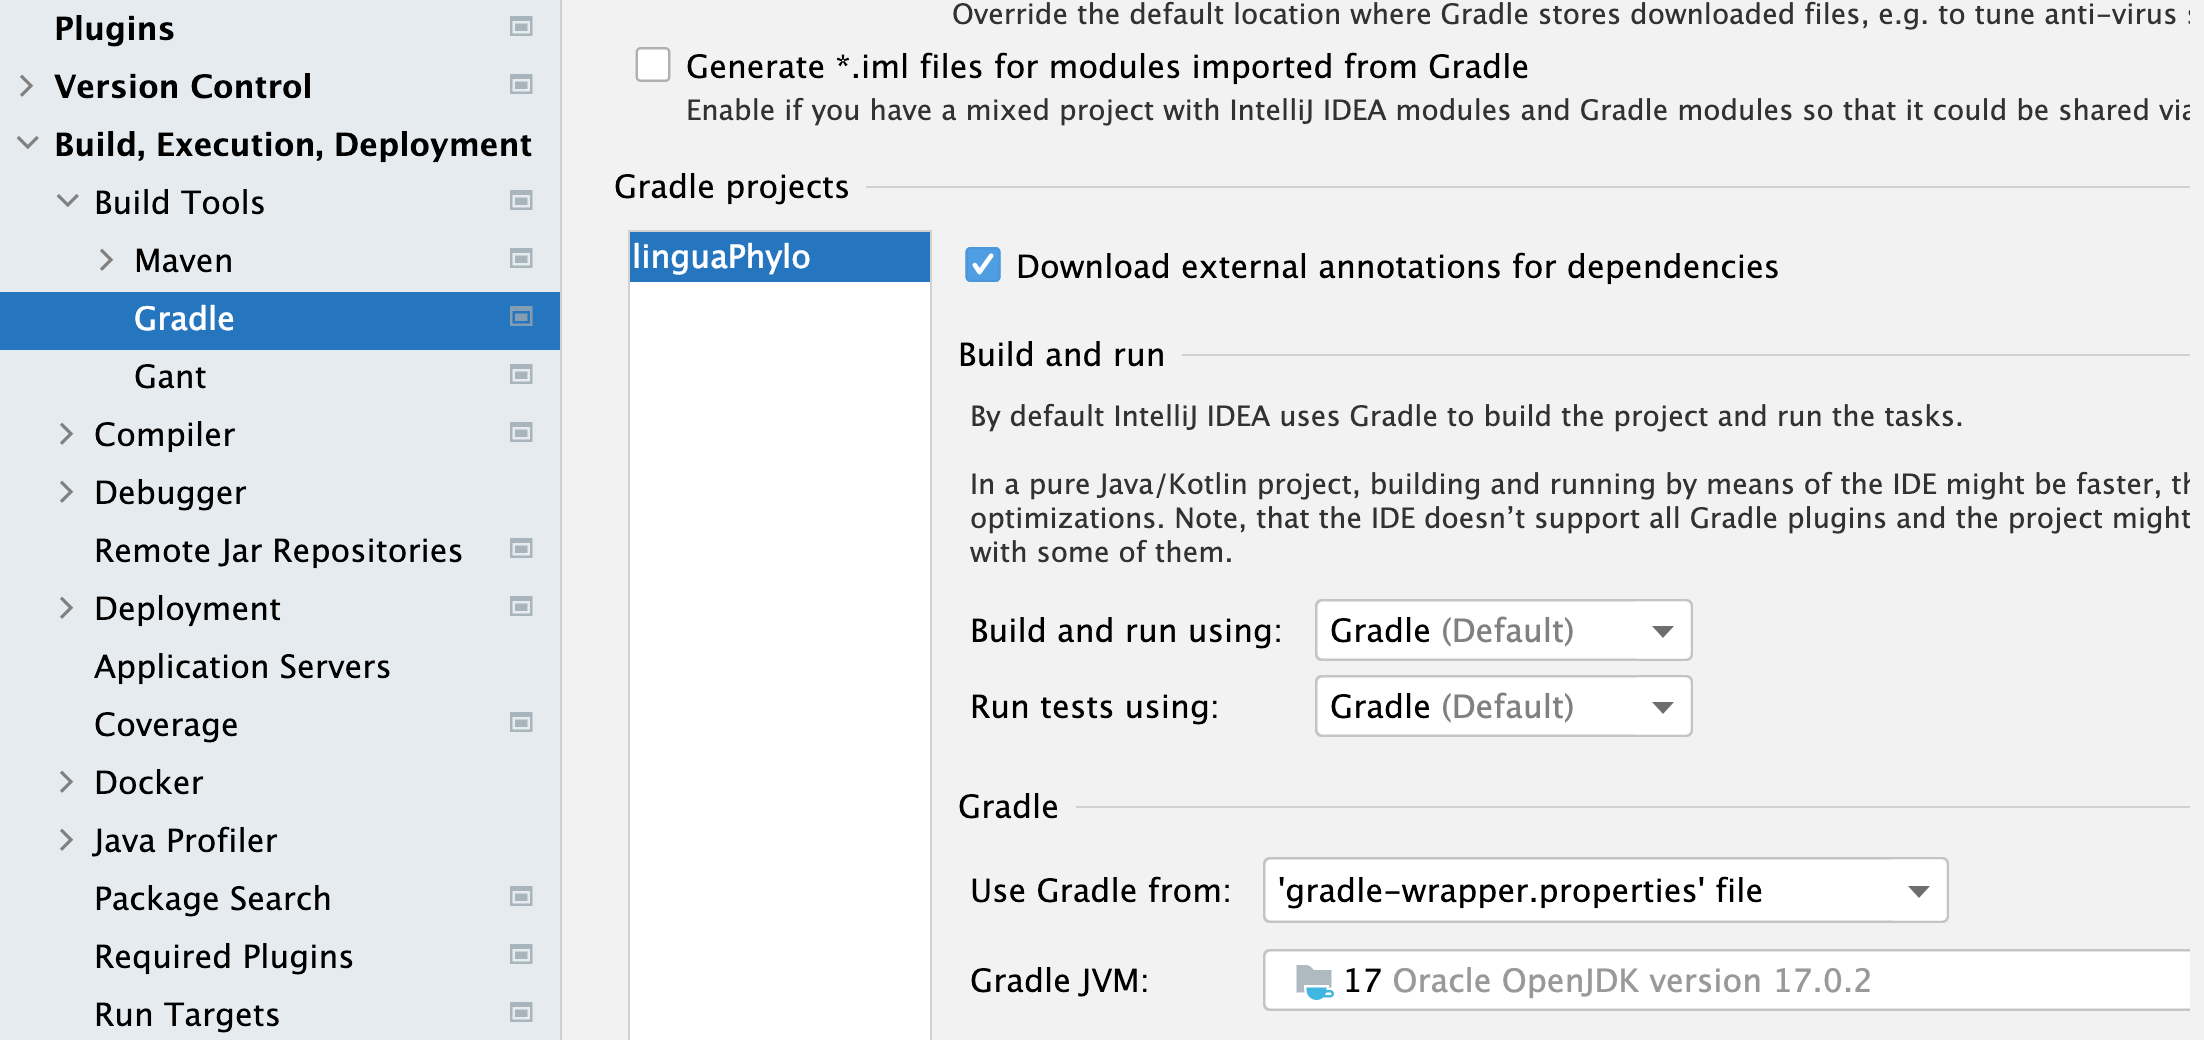
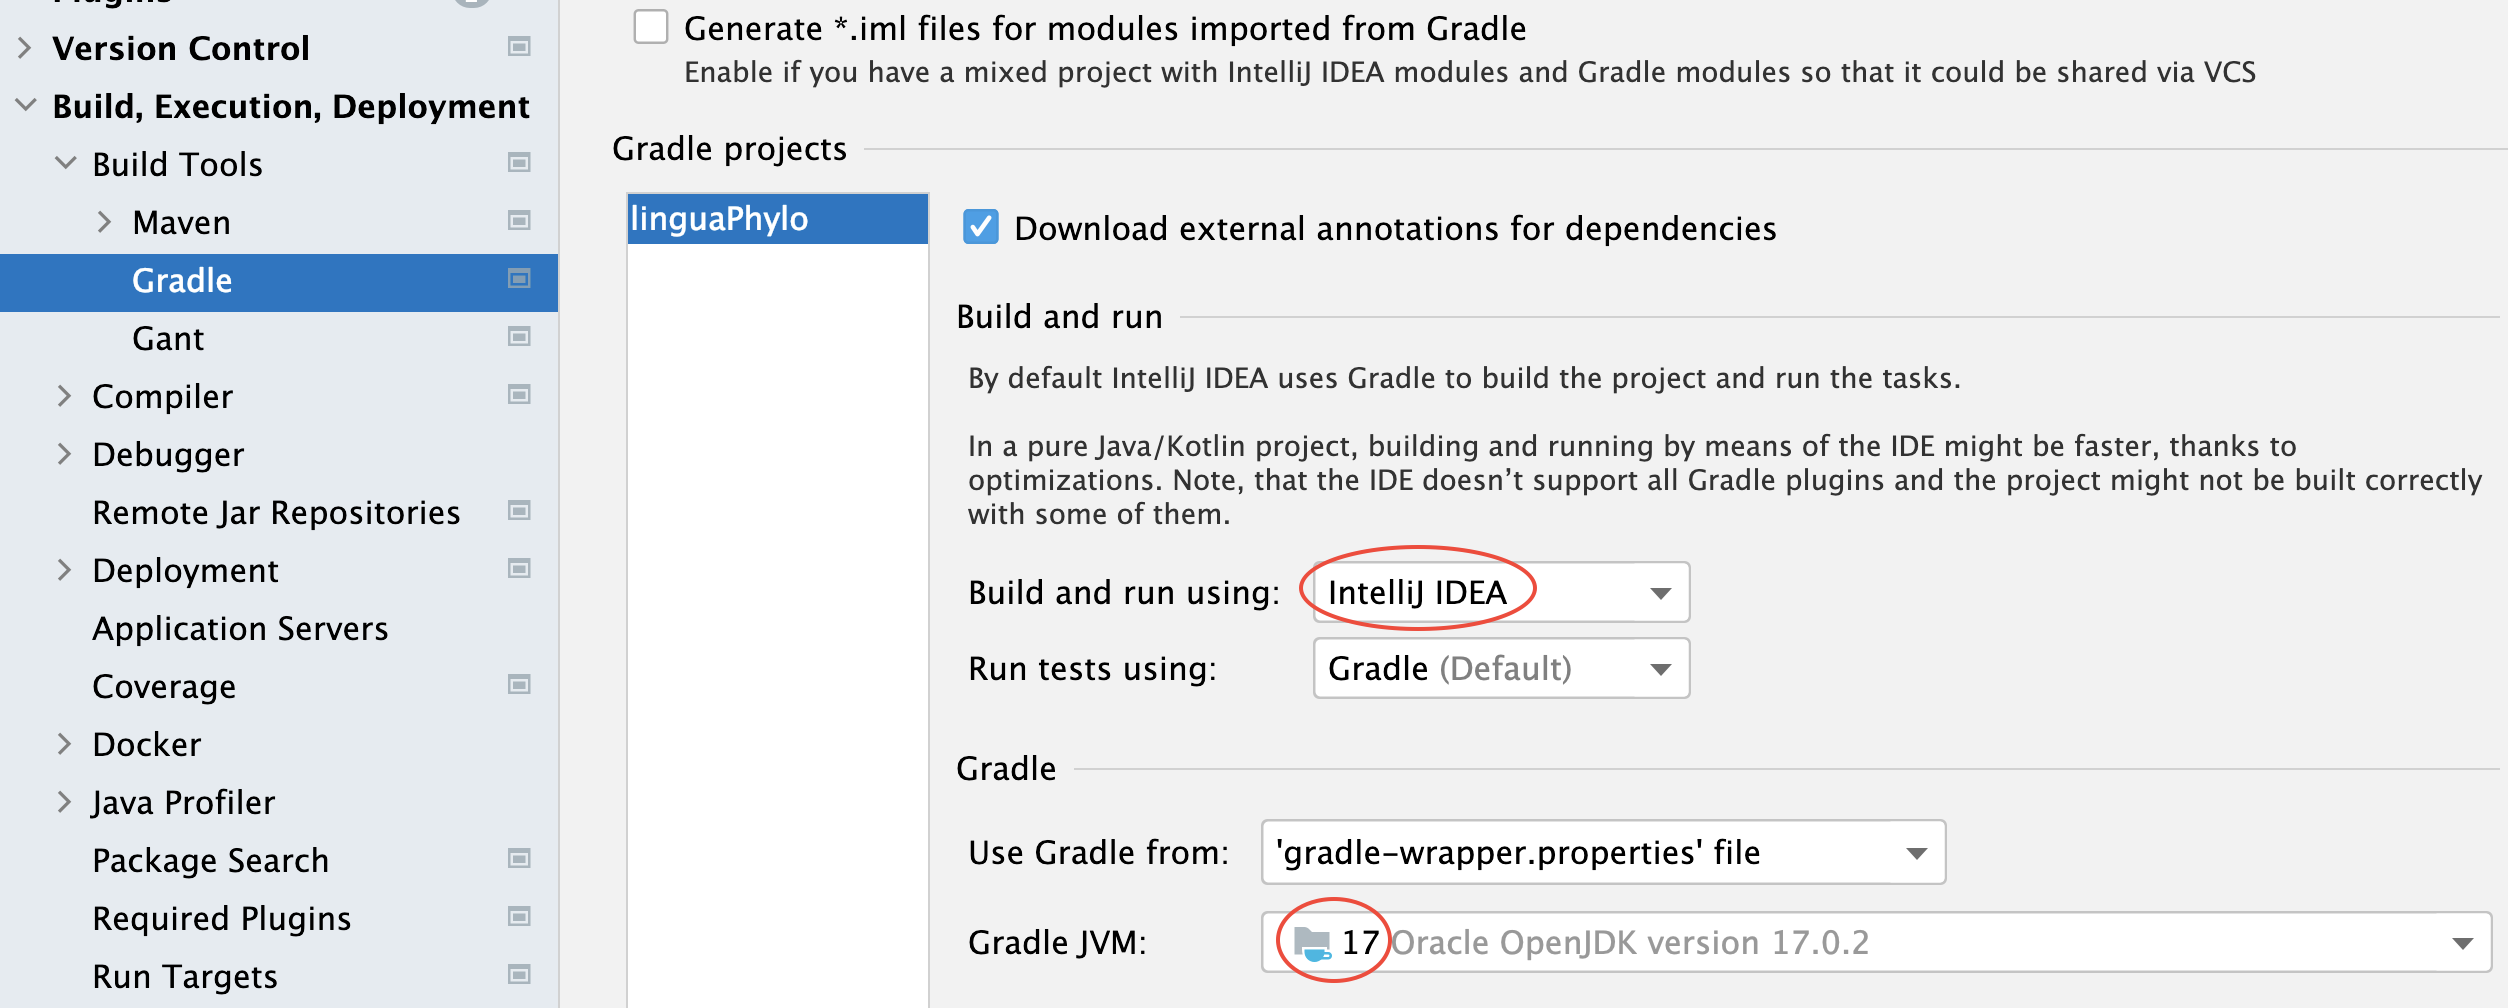
important update

diff --git a/developer/setup-dev-env.md b/developer/setup-dev-env.md
@@ -65,7 +65,9 @@ and `/usr/libexec/java_home -V` to list all available Java versions in your oper
 They are also the Gradle projects. Please install [Gradle 7.x](https://gradle.org/install/) before you start.
 
 Please configure your IntelliJ Gradle JVM to {{ java_version }}. You can go to "Preferences", 
-and expand `Build, Execution, Deployment` => `Build Tools` => `Gradle`:  
+and expand `Build, Execution, Deployment` => `Build Tools` => `Gradle`.
+In addition, it is important to set `Build and run using` "IntelliJ IDEA".
+The breakpoints will not work using the default option "Gradle".
 
 <figure class="image">
   <img src="GradleJVM.png" alt="GradleJVM">
